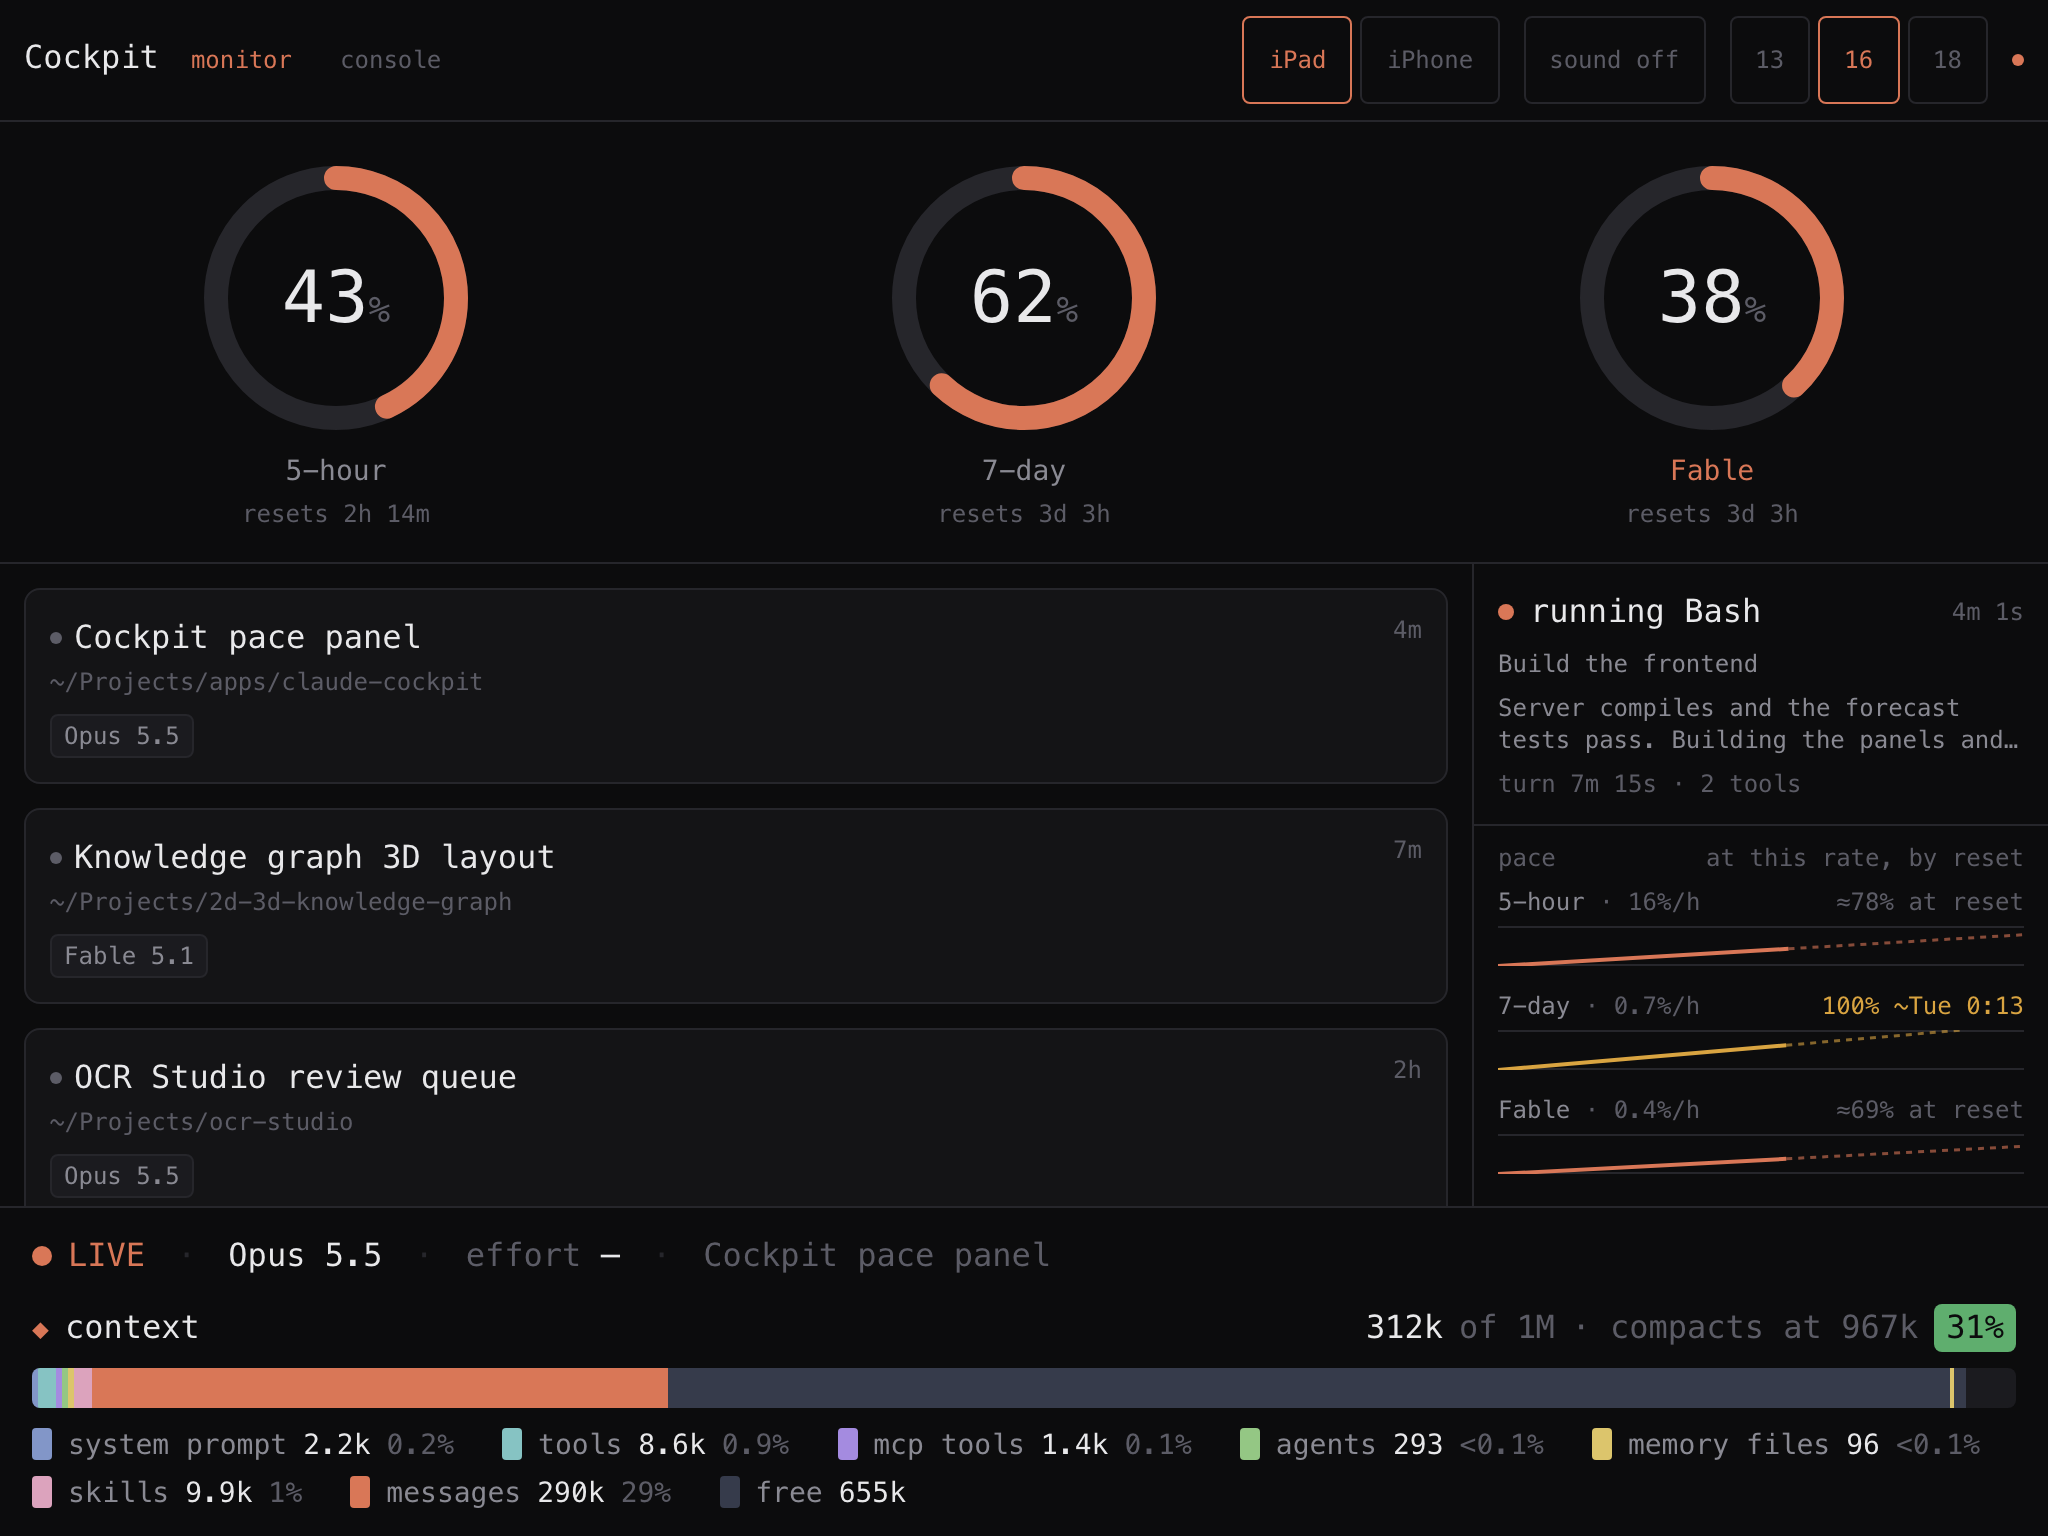
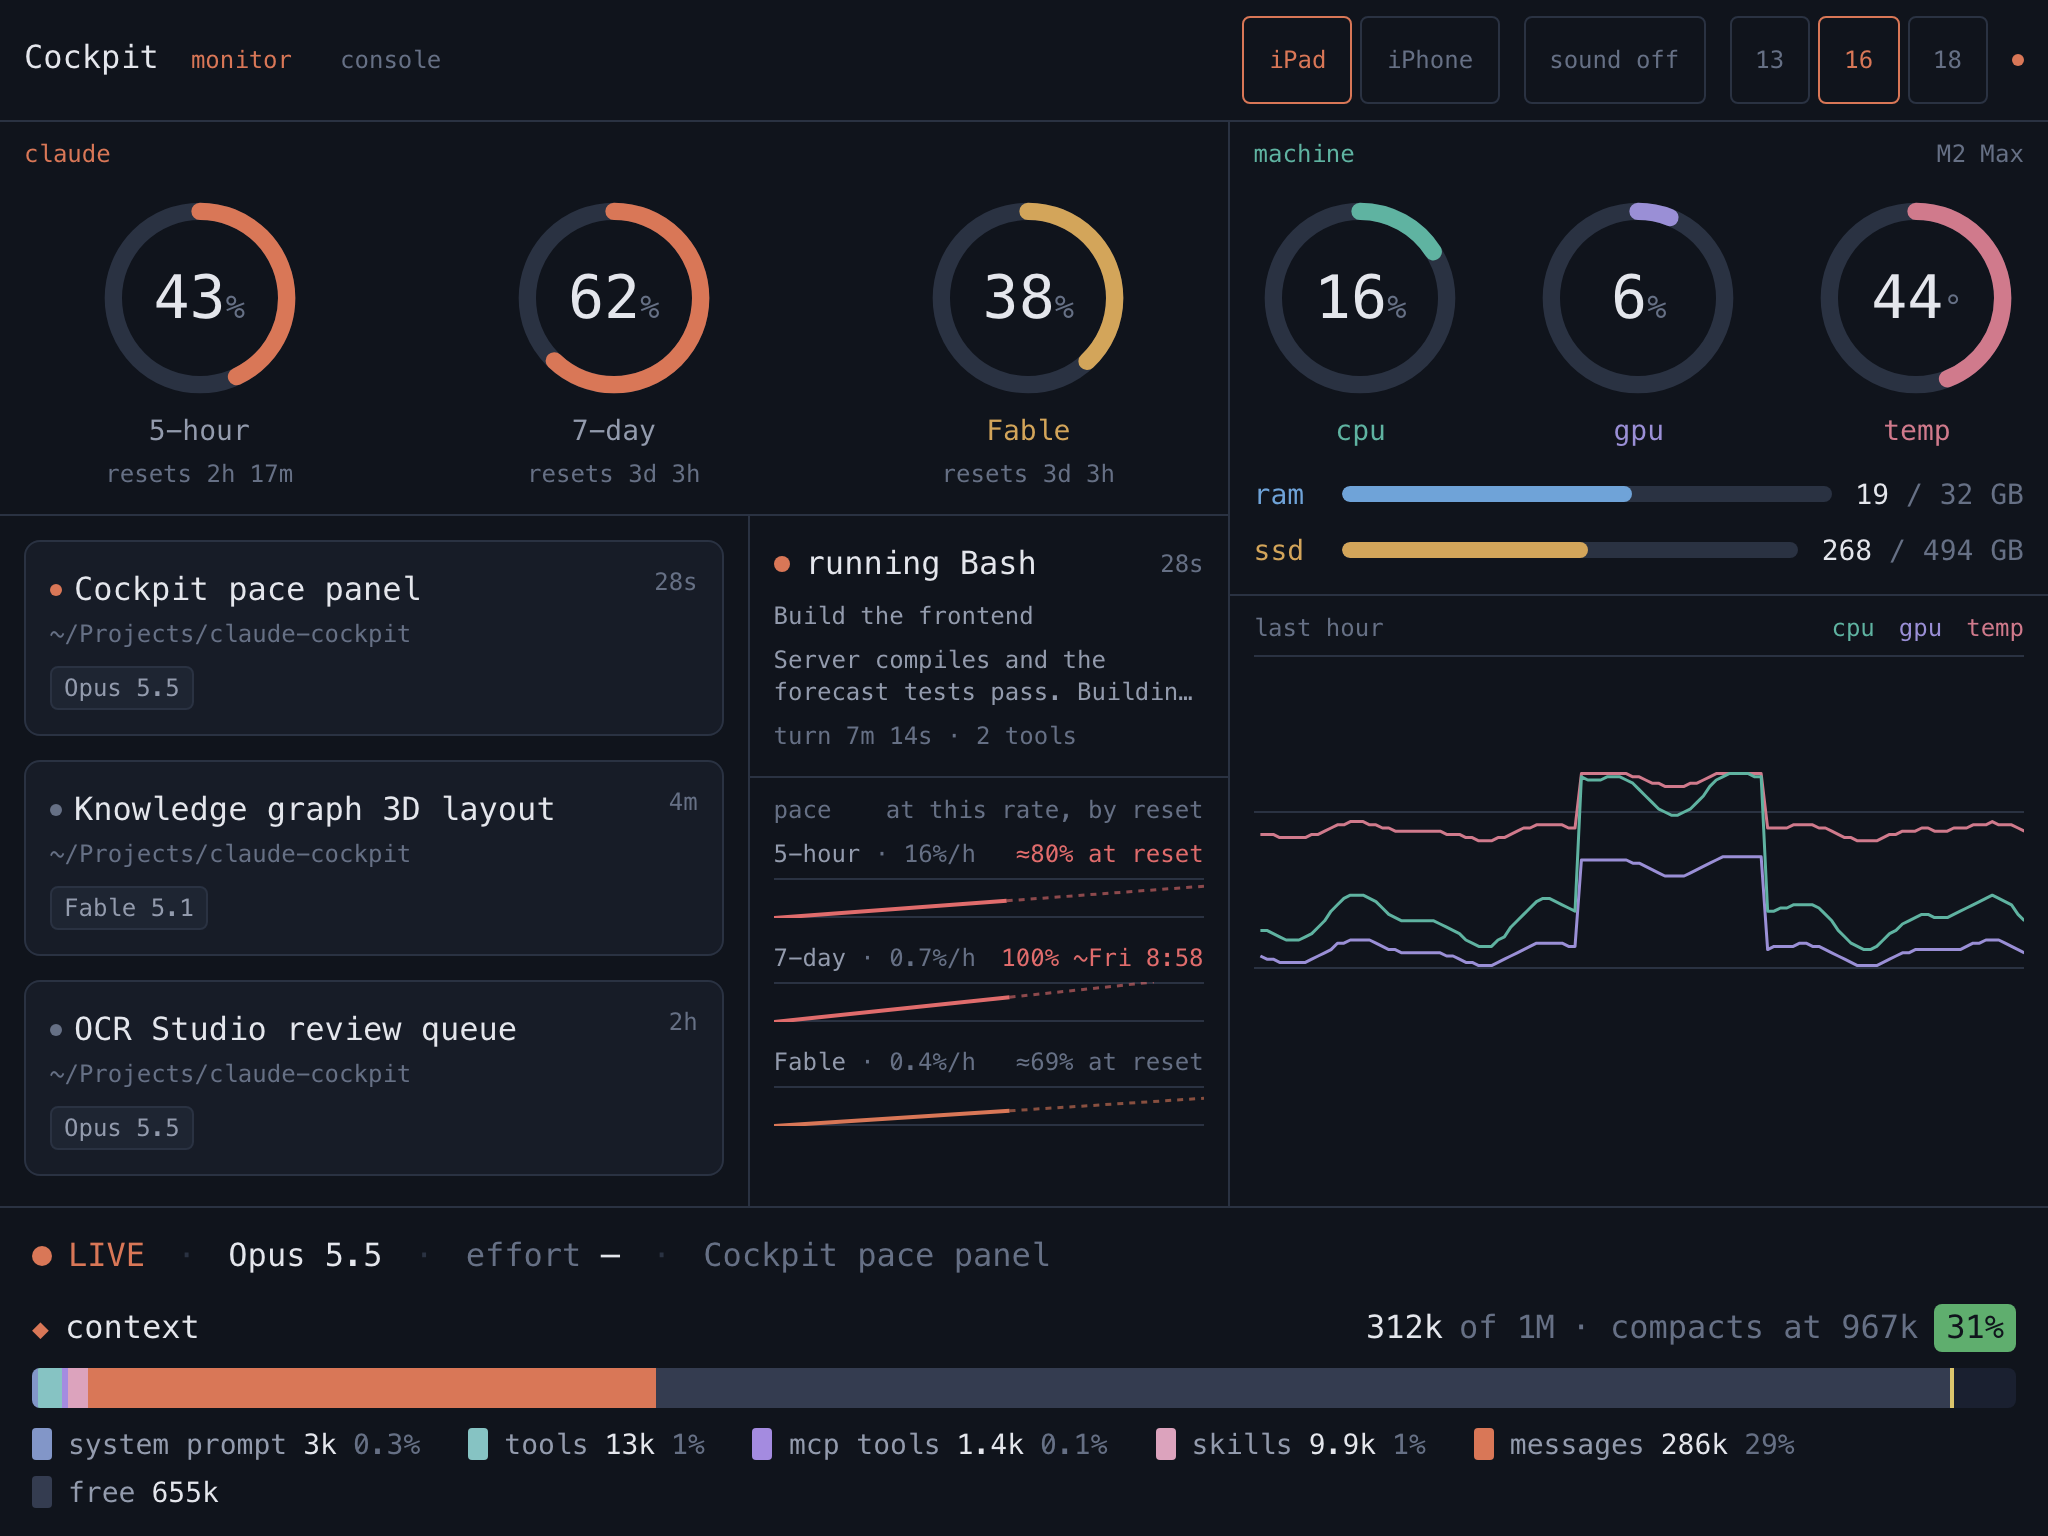
Update README and screenshots for the two-halves layout
Document the machine half, the slate theme and the top-bar fix, and
regenerate docs/*.PNG from the demo, which now includes a machine fixture
(COCKPIT_MACHINE_FIXTURE) so the screenshots never show the live Mac.

diff --git a/server/machine.ts b/server/machine.ts
@@ -1,4 +1,5 @@
 import { execFile, spawn, type ChildProcess } from 'node:child_process'
+import { readFileSync } from 'node:fs'
 import { statfs, stat } from 'node:fs/promises'
 import os from 'node:os'
 import path from 'node:path'
@@ -61,6 +62,16 @@ export class Machine {
   private lastHistory = 0
 
   start(onChange: () => void): void {
+    // Offline/demo hook: show saved readings instead of this Mac's own.
+    const fixture = process.env.COCKPIT_MACHINE_FIXTURE
+    if (fixture) {
+      try {
+        this.view = JSON.parse(readFileSync(fixture, 'utf8'))
+        return
+      } catch {
+        /* unreadable fixture: fall through to live readings */
+      }
+    }
     const tick = async () => {
       await Promise.all([this.readCpu(), this.readGpu(), this.readRam()])
       this.record()

diff --git a/README.md b/README.md
@@ -10,9 +10,9 @@
 
 **A wall-mounted status board for [Claude Code](https://claude.com/claude-code).**
 Runs on a spare iPad or iPhone next to your desk and shows — at a glance — how much
-of your usage limits you've burned, what your live sessions are doing, and whether
-you're about to hit a wall. It can also *drive* Claude Code sessions, not just
-watch them.
+of your usage limits you've burned, what your live sessions are doing, whether
+you're about to hit a wall, and how hard the Mac underneath is working. It can
+also *drive* Claude Code sessions, not just watch them.
 
 ![Claude Cockpit on an iPad Mini 4, landscape](docs/ipad.PNG)
 
@@ -33,11 +33,12 @@ watch them.
 
 ## What it shows
 
-The **monitor** view is a read-only glance board:
+The **monitor** view is a read-only glance board in two halves — Claude on the
+left, the Mac it runs on to the right:
 
 - **Usage gauges** — your rolling **5-hour** and **7-day** plan limits, plus a
-  model-scoped **Fable** gauge, each with a live reset countdown. Turn amber as
-  you approach the ceiling.
+  model-scoped **Fable** gauge (in amber, to set it apart), each with a live
+  reset countdown. Turn red as you approach the ceiling.
 - **Live sessions** — every running Claude Code session (including ones started
   by the desktop app), with its model and state.
 - **Now** — what the focused session is doing this second: `running Bash`,
@@ -46,7 +47,10 @@ The **monitor** view is a read-only glance board:
   run, and how many tools it has called.
 - **Pace** — for each plan limit, a sparkline of usage across its window with
   a dashed projection to reset, and the verdict: *≈19% at reset*, or — in
-  amber — *100% ~Wed 1:07 AM* if you'll run out first.
+  red — *100% ~Wed 1:07 AM* if you'll run out first.
+- **Machine** — the Mac itself: **CPU**, **GPU** and **temperature** gauges,
+  **RAM** and **SSD** bars, and a chart of the last hour. Each metric keeps one
+  colour everywhere it appears, and turns red when it runs hot or full.
 - **Status footer** — a persistent `LIVE / OFFLINE` indicator, the focused
   session's model, effort and title, and a full-width segmented **context** bar
   in the style of the CLI's own readout: system prompt, tools, MCP tools,
@@ -68,8 +72,9 @@ tablet on landscape — then remembers your choice.
 
 | | iPad (landscape) | iPhone (portrait) |
 |---|---|---|
-| Gauges | full size, in a row | smaller, three across |
-| Body | sessions ∣ now + pace, side by side | stacked: sessions, now, pace |
+| Split | two halves: Claude ∣ machine | one column |
+| Gauges | three across the top of each half | three across, slightly smaller |
+| Body | sessions ∣ now + pace under the Claude gauges | stacked: sessions, now, pace, machine |
 | Sessions | all of them | the 2 most recent, to keep the column short |
 | Width | fills the screen | a phone-width column, centred on wider screens |
 
@@ -121,6 +126,11 @@ and (optionally) drives new sessions it spawns itself. There are two planes:
   to the average since the window opened — which needs no history at all,
   since every window starts at 0%. The last good reading is also replayed at
   startup, so the gauges don't blank while the first poll is in flight.
+- **Machine** — CPU from the OS counters, memory from `vm_stat`, GPU
+  utilization from `ioreg`, disk from `statfs`, and temperature from a small
+  Swift helper that reads the same sensors `powermetrics` does. None of it
+  needs admin rights. Sampled every 3 s, with one point per 30 s kept for the
+  last-hour chart (in memory; it starts empty after a restart).
 - **Context window** — the current context vs. the model's real window, pulled
   live from the Models API (`max_input_tokens`), not a hardcoded number.
 - **Context breakdown** — Claude Code never writes its per-category estimate to
@@ -150,7 +160,9 @@ in-page.)
 ## Getting started
 
 **Prerequisites:** macOS, Node.js 20+, [pnpm](https://pnpm.io), and Claude Code
-installed. The usage panel needs a one-time `claude auth login`.
+installed. The usage panel needs a one-time `claude auth login`. The temperature
+gauge needs the Swift compiler (Xcode or its Command Line Tools) — the helper is
+built on first start; without it the gauge shows `—` and everything else works.
 
 ```sh
 pnpm install
@@ -193,6 +205,8 @@ server/            Fastify + WebSocket backend (TypeScript, run via tsx)
   sessions.ts        watches ~/.claude/sessions registry
   transcript.ts      incremental JSONL tailer for model + token usage
   limits.ts          plan-usage gauges (5h / 7d / Fable), history and pace forecast
+  machine.ts         CPU, GPU, RAM, SSD and temperature readings + last-hour history
+  helpers/temp.swift sudo-less temperature sensor reader, built on first start
   credential.ts      Keychain read + self-refreshing OAuth token
   models.ts          live context-window sizes from the Models API
   context.ts         per-cwd `claude -p /context` probe → context breakdown
@@ -202,7 +216,8 @@ server/            Fastify + WebSocket backend (TypeScript, run via tsx)
 
 src/               React + Tailwind frontend
   App.tsx            layout + view switching
-  components/        LimitsHero, NowPanel, PacePanel, StatusBar, ContextBar, …
+  components/        LimitsHero, MachinePanel, NowPanel, PacePanel, StatusBar, ContextBar, …
+  theme.ts           the per-metric colours used in SVG strokes
   ws.ts              WebSocket hook + shared types
 
 hooks/             Claude Code hooks that POST to the server
@@ -212,7 +227,7 @@ hooks/             Claude Code hooks that POST to the server
 service/           launchd launcher (run.sh) + logs
 
 scripts/screenshots/   `pnpm screenshots` → regenerates docs/*.PNG
-  make-demo.mjs      neutral sample sessions + usage fixture (never the live board)
+  make-demo.mjs      neutral sample sessions + usage and machine fixtures (never the live board)
   cdp-shot.mjs       device-emulated capture via headless Chrome
 ```
 
@@ -227,6 +242,18 @@ Claude Code actually behaves (each verified against the real CLI, not assumed):
   iPadOS 15.8. Vite's `build.target` is pinned to `['es2020','safari15']` too.
 - **Touch targets are 44 px in absolute pixels, not `rem`.** A fingertip doesn't
   scale with the font-size control, and a density-scaled button was untappable.
+- **The status bar is opaque, and the header sits below it.** With a
+  translucent bar the system draws over the header and dims it; `black` plus
+  padding of inset *plus* a margin (not `max()` of the two) keeps it clear. The
+  style is read when the home-screen icon is created, so re-add the icon after
+  changing it.
+- **Temperature without sudo.** `powermetrics` needs root. The Swift helper
+  asks the HID sensor services directly and streams one line every few
+  seconds; if Apple changes those private calls it exits and the gauge goes
+  blank rather than taking the server down.
+- **One hue per metric, muted.** Clay stays Claude's colour; CPU, GPU, RAM, SSD
+  and temperature each get their own so a reading is recognisable by colour
+  from across the desk. Red is reserved for "too high".
 - **Updates coalesce at 250 ms** and the DOM is capped — the 2015 A8 can't take a
   socket firing on every token.
 - **The usage token self-refreshes.** Its TTL is 8 h and the refresh token
@@ -259,6 +286,8 @@ Claude Code actually behaves (each verified against the real CLI, not assumed):
 
 - **macOS only** — the usage token lives in the macOS Keychain and the service is
   a launchd agent. Ports would be needed for Linux/Windows.
+- **Machine readings are Apple Silicon-shaped** — the GPU and temperature
+  sources are what an M-series Mac exposes; on other hardware those two show `—`.
 - **Effort shows `—` on the monitor** for desktop sessions — it's set at spawn and
   never written to disk, so an observer genuinely can't know it. It's live in the
   console (where the app chose it).
